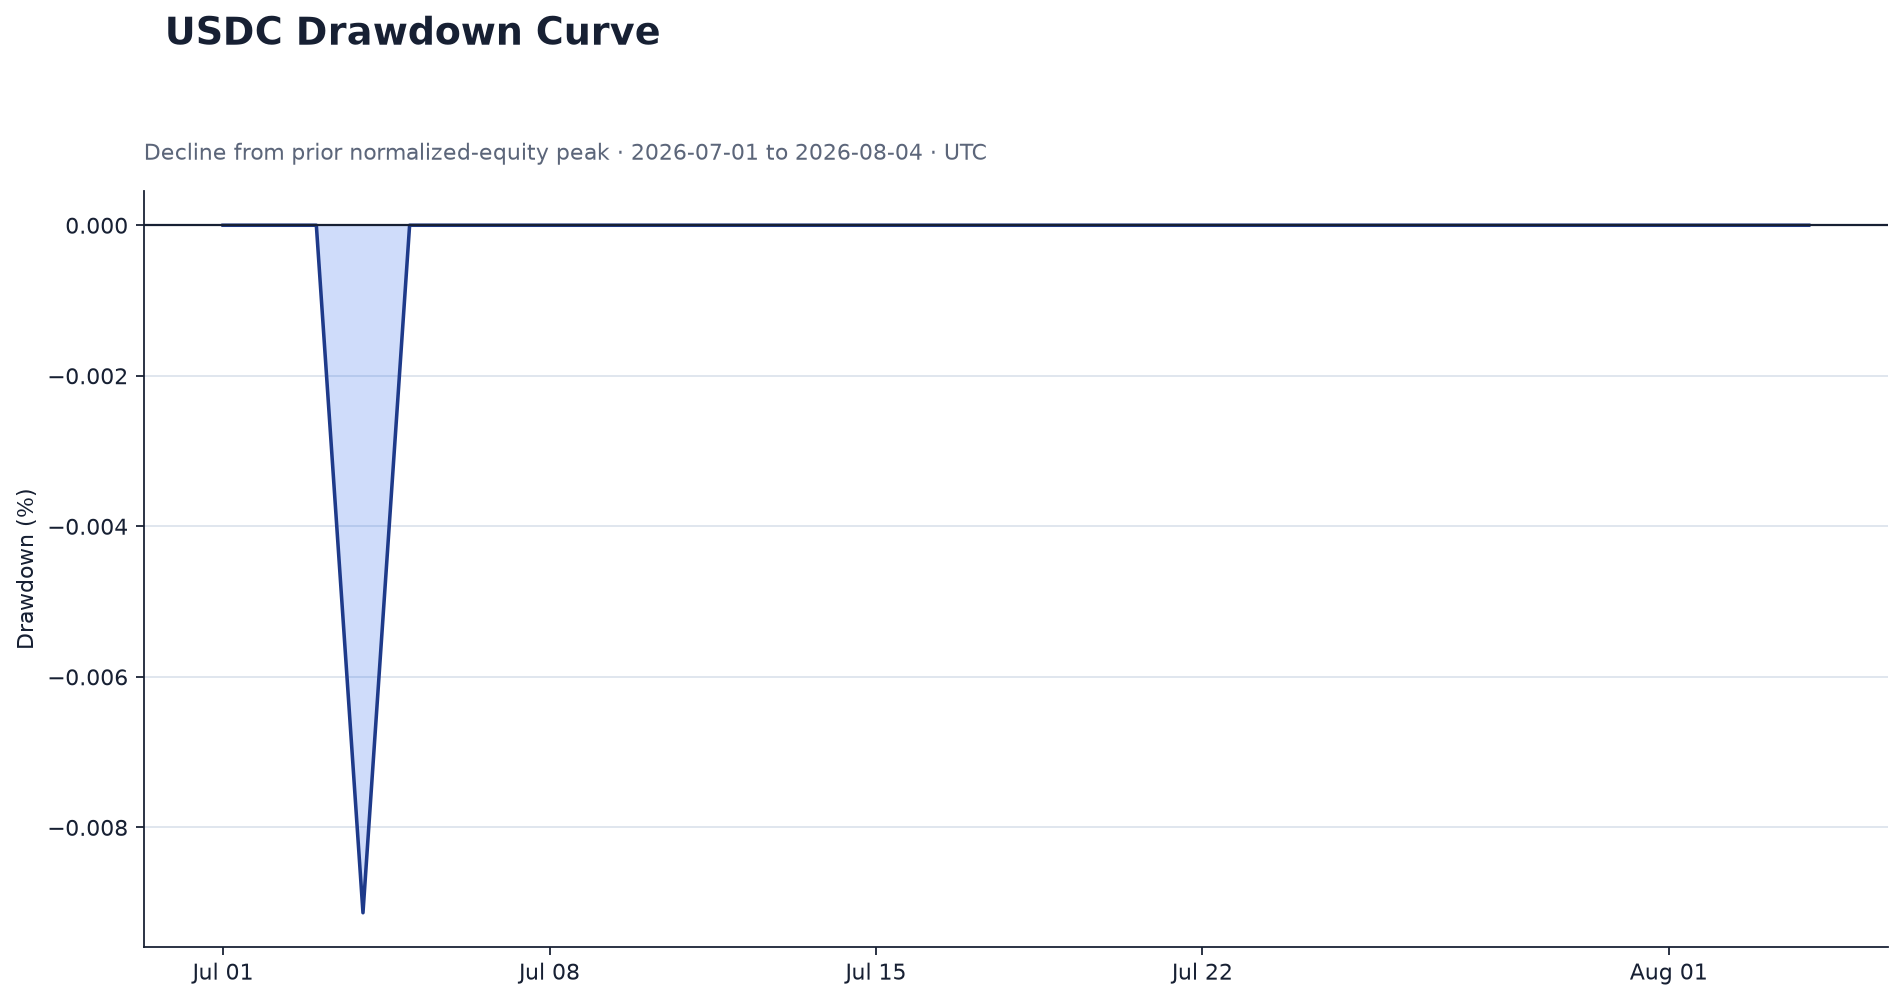
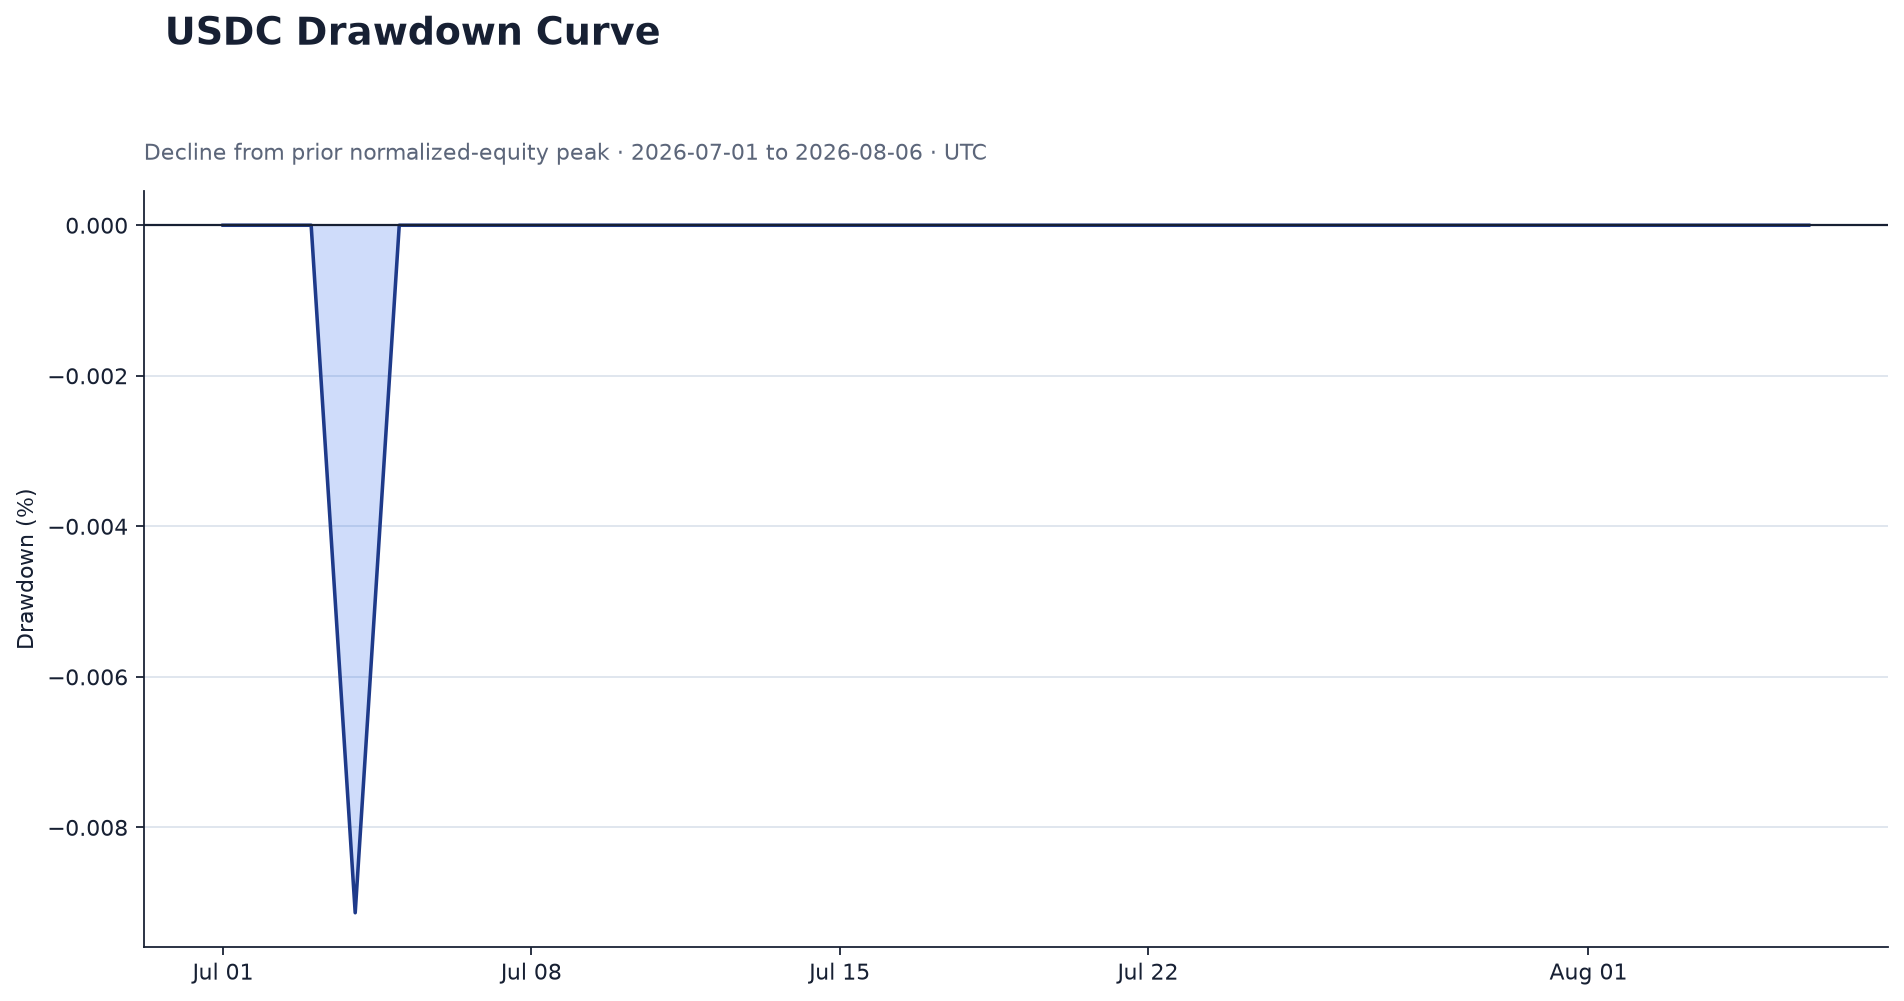
chore: update USDC performance

diff --git a/reports/performance_summary.md b/reports/performance_summary.md
@@ -1,7 +1,7 @@
 # Performance Summary
 
-Generated at: **2026-08-04T07:05:35Z**<br>
-Coverage: **2026-07-01 to 2026-08-04 (UTC)**<br>
+Generated at: **2026-08-06T05:47:45Z**<br>
+Coverage: **2026-07-01 to 2026-08-06 (UTC)**<br>
 Scope: **Daily USDC USD-M Futures realized performance**
 
 Absolute account values are not published. USD-M Futures transfers are excluded from trading return.
@@ -9,23 +9,23 @@ Sharpe and Sortino use private total daily returns including unrealized PnL; unr
 
 | Metric | Value |
 |---|---:|
-| Cumulative Return | 2.69% |
-| Latest Daily Return | 0.03% |
-| Annualized Return | 35.32% |
-| Annualized Volatility | 1.39% |
-| Sharpe Ratio | 5.238056 |
-| Sortino Ratio | 9.311658 |
+| Cumulative Return | 2.96% |
+| Latest Daily Return | 0.02% |
+| Annualized Return | 36.71% |
+| Annualized Volatility | 1.37% |
+| Sharpe Ratio | 5.623300 |
+| Sortino Ratio | 9.981135 |
 | Maximum Drawdown | -0.01% |
-| Calmar Ratio | 3867.335549 |
-| Win Rate | 96.30% |
-| Profit Factor | 1086.961676 |
-| Total Realized Pnl Usdc | 117.325099 |
+| Calmar Ratio | 4019.364407 |
+| Win Rate | 96.55% |
+| Profit Factor | 1197.070573 |
+| Total Realized Pnl Usdc | 129.484099 |
 | Total Commission Usdc | -0.075227 |
-| Total Funding Fee Usdc | 1.719771 |
-| Total Net Pnl Usdc | 118.969643 |
-| Number Of Trading Days | 27 |
-| Number Of Trades | 845 |
-| Valid Return Days | 32 |
+| Total Funding Fee Usdc | 1.623459 |
+| Total Net Pnl Usdc | 131.032330 |
+| Number Of Trading Days | 29 |
+| Number Of Trades | 937 |
+| Valid Return Days | 34 |
 | Excluded Return Days | 3 |
 | Annualization Factor | 365 |
 
